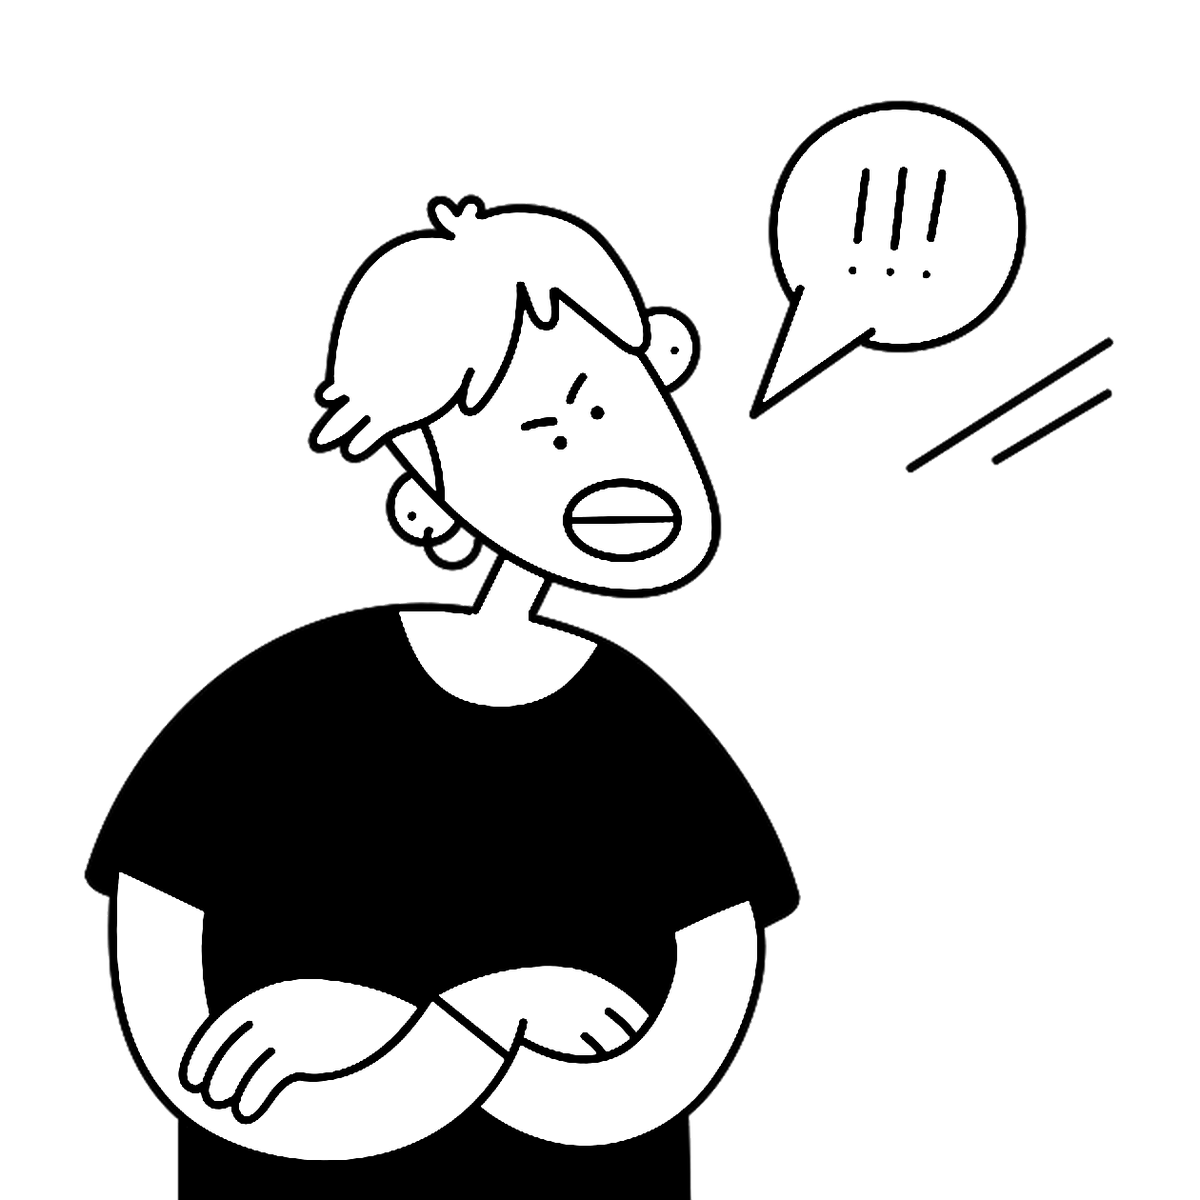
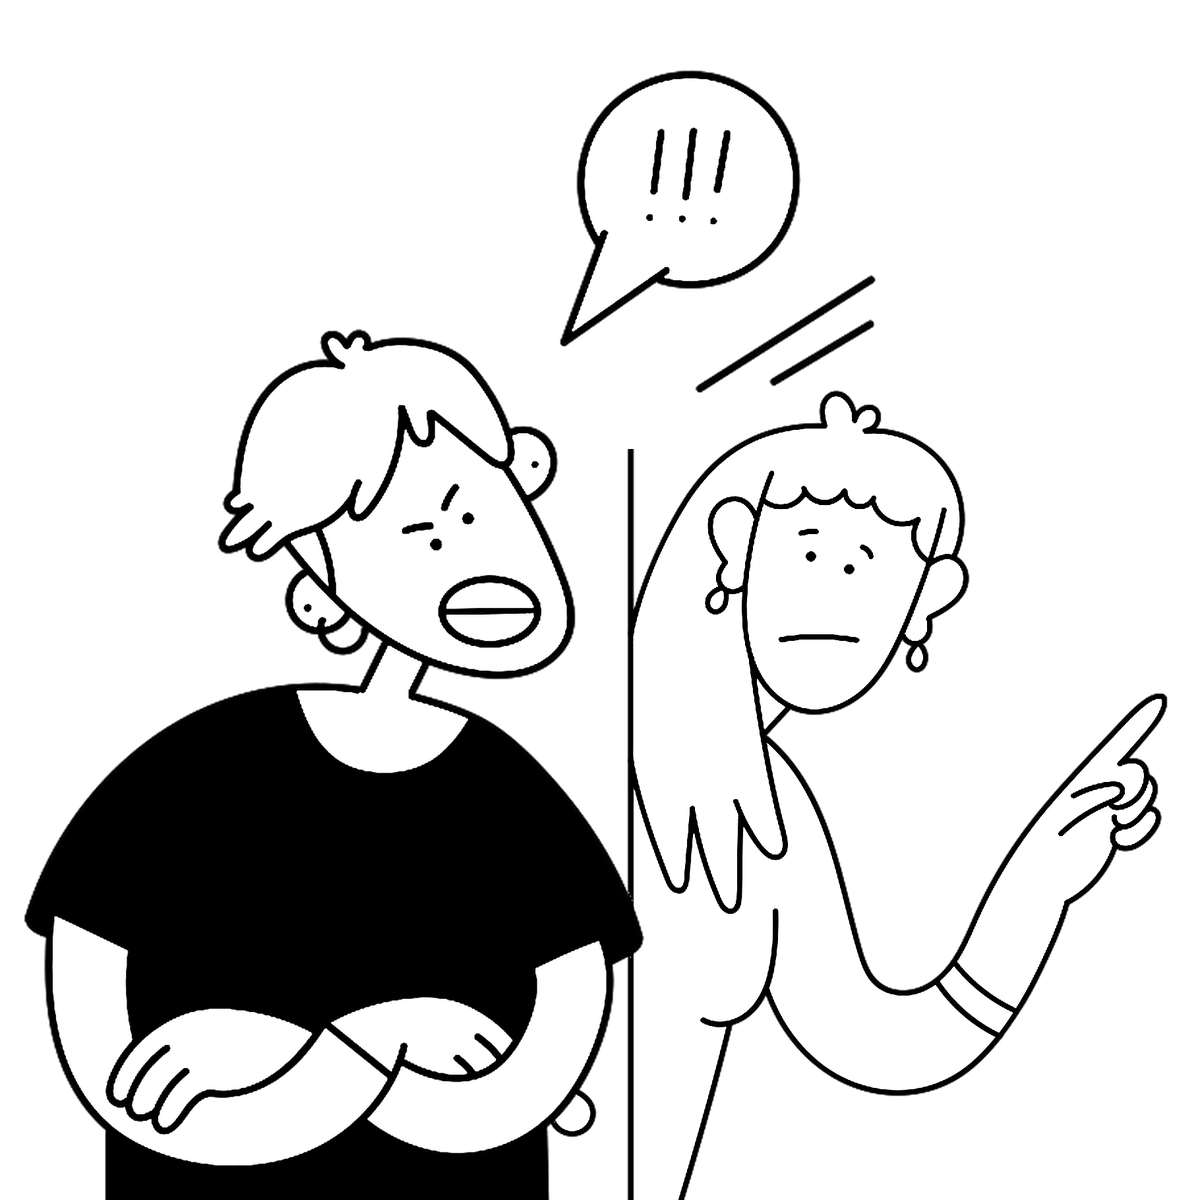
Иллюстрация с мамой: подросток и мама в одном квадрате
Подросток крупнее на переднем плане, мама выглядывает из-за двери справа,
пузырь «!!!» поднят над головами. Черно-белый контур без фона.

diff --git a/index.html b/index.html
@@ -373,9 +373,10 @@
         <p class="facts">33 урока · 9 разделов · доступ навсегда</p>
       </div>
       <div class="hero-art">
-        <!-- Фрагмент обложки НЭН к тексту «Как общаться с подростком, чтобы сохранить доверие» (13.03.2025),
-             переведен в черно-белый контур без фона. Заменить на иллюстрацию курса, когда она будет готова. -->
-        <img src="images/hero.png" alt="Подросток скрестил руки и кричит" width="1200" height="1200" fetchpriority="high">
+        <!-- Обложка НЭН к тексту «Как общаться с подростком, чтобы сохранить доверие» (13.03.2025):
+             переведена в черно-белый контур без фона и перекомпонована в квадрат.
+             Заменить на иллюстрацию курса, когда она будет готова. -->
+        <img src="images/hero.png" alt="Подросток скрестил руки и кричит, мама выглядывает из-за двери" width="1200" height="1200" fetchpriority="high">
       </div>
     </div>
   </section>

diff --git a/README.md b/README.md
@@ -18,6 +18,6 @@ python3 -m http.server 8765
 2. Условия доступа скопированы с /perestan/: ЮKassa и СБП, бессрочный доступ, кабинет создается сам. Обещание бесплатных обновлений и скидка Балансити — по плану главной, размер скидки не указан.
 3. В вопросах написано, что уроки текстовые. Если будет аудиоверсия, поправить ответ.
 4. Эксперты: в блоке «Курс написала редакция НЭН» в коде есть закомментированная строка-шаблон. Добавлять после подтверждения редакцией.
-5. `images/hero.png` — временная картинка: фрагмент обложки НЭН к статье «Как общаться с подростком, чтобы сохранить доверие» (13.03.2025), переведенный в черно-белый контур без фона.
+5. `images/hero.png` — временная картинка: обложка НЭН к статье «Как общаться с подростком, чтобы сохранить доверие» (13.03.2025), переведенная в черно-белый контур без фона и перекомпонованная в квадрат.
 
 Яндекс Метрика подключена как на /perestan/ и включается только на домене n-e-n.ru.
